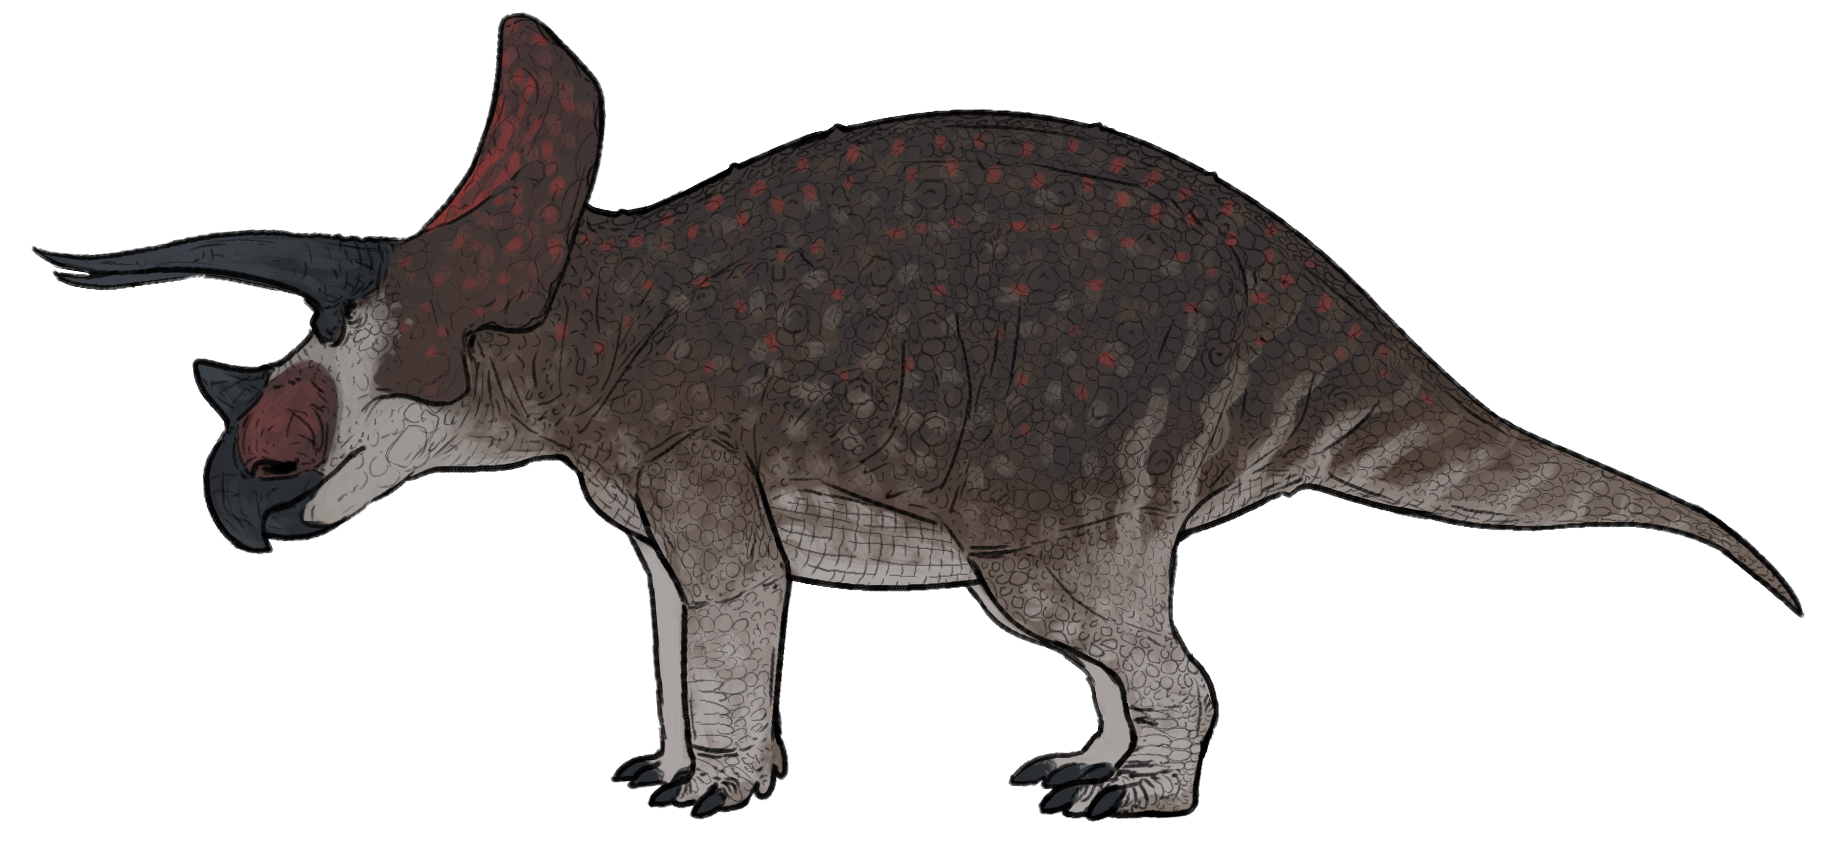
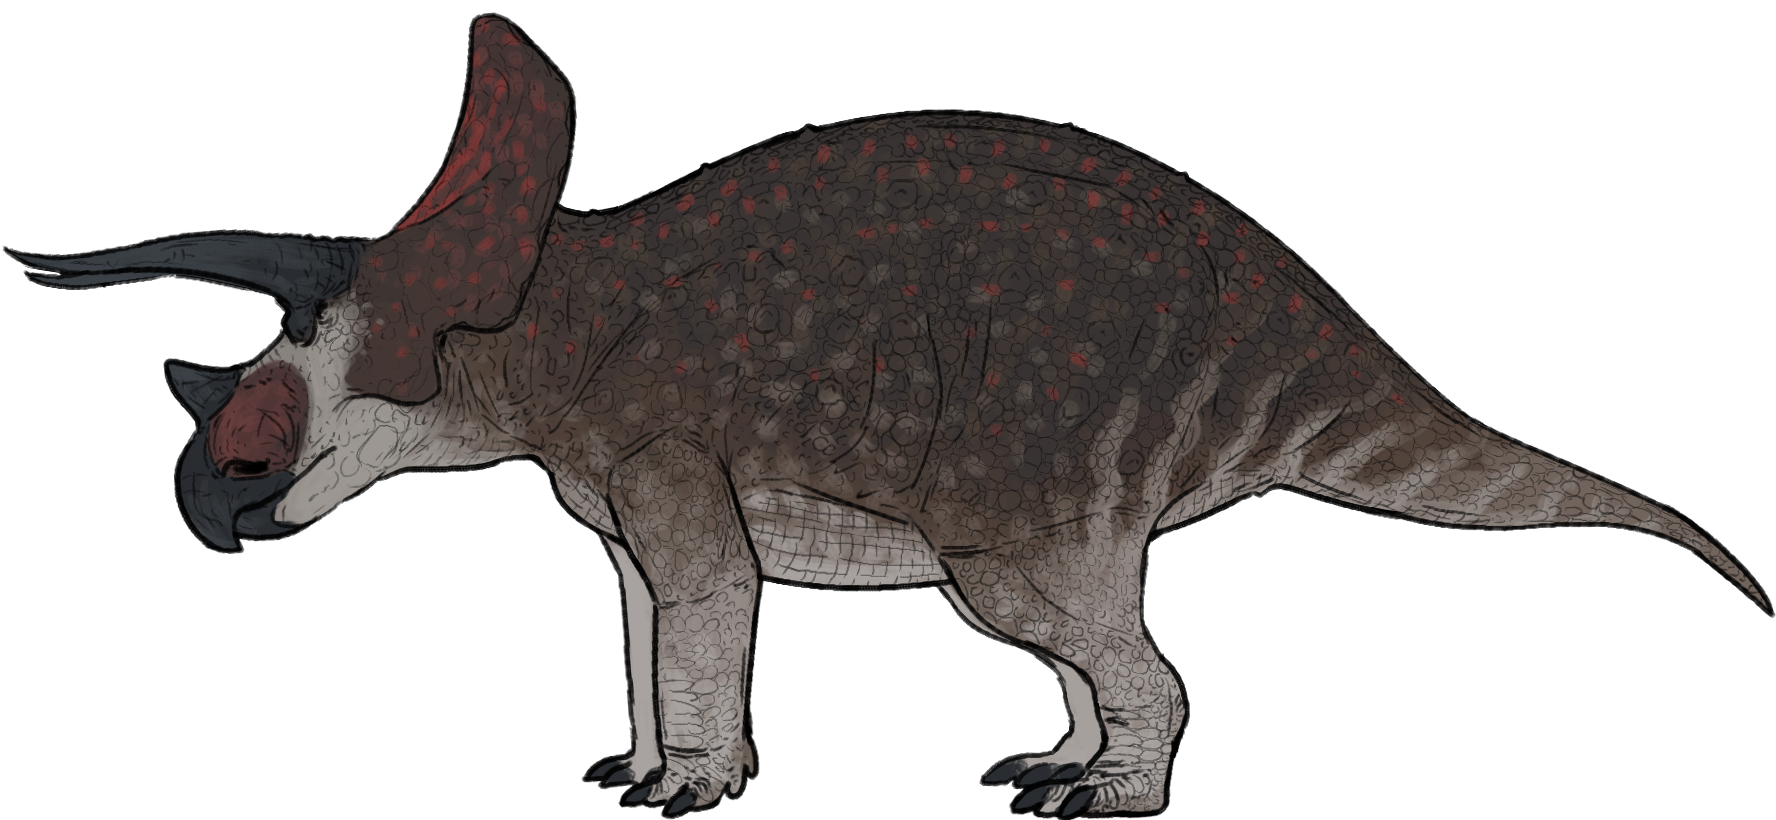
fix(comparison): revert overlay, human/dinos misread as stacked
Overlaying all 3 at the same bottom-left origin broke down for
irregular animal silhouettes: a small figure sharing a big dino's
bounding-box corner reads as "standing on its back," not "same
height." Reverting to the equal-width side-by-side columns from
55a063c, which measures out pixel-identical baselines without the
visual ambiguity. Also picks up real art for Pachycephalosaurus and a
touched-up Triceratops — all 20 comparison species now have real art.

Changed region(s): [[0.0, 0.0, 0.96, 1.0], [0.96, 0.6707, 1.0, 0.7622], [0.4955, 0.2439, 0.5265, 0.2744]]

diff --git a/src/screens/ComparisonScreen.js b/src/screens/ComparisonScreen.js
@@ -66,9 +66,9 @@ function DinoPicker({ names, byName, activeName, onPick, otherName }) {
 // talajvonalon állva a hossz ÉS a magasság is valós arányban látszik.
 // A natív arányt onLoad-ból olvassuk (Image.resolveAssetSource nem elérhető
 // react-native-web-en) — betöltésig egy hosszúkás alapértelmezés van.
-function StageFigure({ dino, progress, pxPerMeter, zIndex }) {
+function StageFigure({ dino, progress, pxPerMeter }) {
   const [aspect, setAspect] = useState(2);
-  if (!dino) return null;
+  if (!dino) return <View style={styles.stageColumn} />;
   const collected = isCollected(dino, progress);
   const heightM = getScaleHeightM(dino);
   const source = COMPARISON_IMAGE_MAP[dino.name_hu];
@@ -76,7 +76,7 @@ function StageFigure({ dino, progress, pxPerMeter, zIndex }) {
   const renderWidth = renderHeight * aspect;
 
   return (
-    <View style={[styles.stackFigure, { zIndex }]}>
+    <View style={styles.stageColumn}>
       <Image
         source={source}
         style={[{ width: renderWidth, height: renderHeight }, !collected && styles.dinoImageLocked]}
@@ -95,16 +95,16 @@ function StageFigure({ dino, progress, pxPerMeter, zIndex }) {
 
 // A referencia emberalak — ugyanaz az onLoad-alapú arány-kiszámítás, mint
 // a StageFigure-nél, csak fix 1.8 m magassággal és zárolás nélkül.
-function HumanFigure({ pxPerMeter, zIndex }) {
+function HumanFigure({ pxPerMeter }) {
   const [aspect, setAspect] = useState(0.5);
   const renderHeight = Math.max(20, HUMAN_HEIGHT_M * pxPerMeter);
   const renderWidth = renderHeight * aspect;
 
   return (
-    <View style={[styles.stackFigure, { zIndex }]}>
+    <View style={styles.stageColumn}>
       <Image
         source={COMPARISON_HUMAN_IMAGE}
-        style={{ width: renderWidth, height: renderHeight, opacity: 0.85 }}
+        style={{ width: renderWidth, height: renderHeight, opacity: 0.7 }}
         resizeMode="contain"
         onLoad={(e) => {
           const { width, height } = e.nativeEvent?.source || {};
@@ -200,17 +200,6 @@ export default function ComparisonScreen({ nickname, progress, allDinos, onNavig
     return (STAGE_HEIGHT * MAX_FIGURE_FRACTION) / maxH;
   }, [leftHeightM, rightHeightM]);
 
-  // A három sziluett egymásra vetítve, ugyanabból a bal-alsó (x0,y0) pontból
-  // indul — a legmagasabb kerül leghátra (legkisebb zIndex), hogy mindegyik
-  // körvonala kivehető maradjon.
-  const zByHeight = [
-    { key: 'left', h: leftHeightM },
-    { key: 'human', h: HUMAN_HEIGHT_M },
-    { key: 'right', h: rightHeightM },
-  ]
-    .sort((a, b) => b.h - a.h)
-    .reduce((acc, item, i) => ({ ...acc, [item.key]: i + 1 }), {});
-
   const handleRandom = () => {
     if (availableNames.length < 2) return;
     const a = availableNames[Math.floor(Math.random() * availableNames.length)];
@@ -239,10 +228,10 @@ export default function ComparisonScreen({ nickname, progress, allDinos, onNavig
 
         <View style={styles.stage}>
           <Text style={styles.humanCaption}>{t('comparison.human_reference', { m: HUMAN_HEIGHT_M })}</Text>
-          <View style={styles.stageStack}>
-            <StageFigure key={leftName || 'left'} dino={leftDino} progress={progress} pxPerMeter={pxPerMeter} zIndex={zByHeight.left} />
-            <HumanFigure pxPerMeter={pxPerMeter} zIndex={zByHeight.human} />
-            <StageFigure key={rightName || 'right'} dino={rightDino} progress={progress} pxPerMeter={pxPerMeter} zIndex={zByHeight.right} />
+          <View style={styles.stageRow}>
+            <StageFigure key={leftName || 'left'} dino={leftDino} progress={progress} pxPerMeter={pxPerMeter} />
+            <HumanFigure pxPerMeter={pxPerMeter} />
+            <StageFigure key={rightName || 'right'} dino={rightDino} progress={progress} pxPerMeter={pxPerMeter} />
           </View>
           <View style={styles.groundLine} />
         </View>
@@ -324,16 +313,18 @@ const styles = StyleSheet.create({
     fontFamily: FONTS.body,
     fontSize: 11,
   },
-  // Mindhárom alak ugyanabból a bal-alsó (x0,y0) pontból indul, egymásra
-  // vetítve — nem egymás mellett.
-  stageStack: {
-    position: 'relative',
+  stageRow: {
+    flexDirection: 'row',
+    alignItems: 'flex-end',
     height: STAGE_HEIGHT,
   },
-  stackFigure: {
-    position: 'absolute',
-    left: 24,
-    bottom: 0,
+  // Ember + két dínó egyenlő szélességű oszlopban — egyik dínó se dominálja
+  // vizuálisan a színpadot, mindegyik ugyanannyi vízszintes helyet kap.
+  stageColumn: {
+    flex: 1,
+    alignItems: 'center',
+    justifyContent: 'flex-end',
+    height: '100%',
   },
   groundLine: {
     height: 2,
